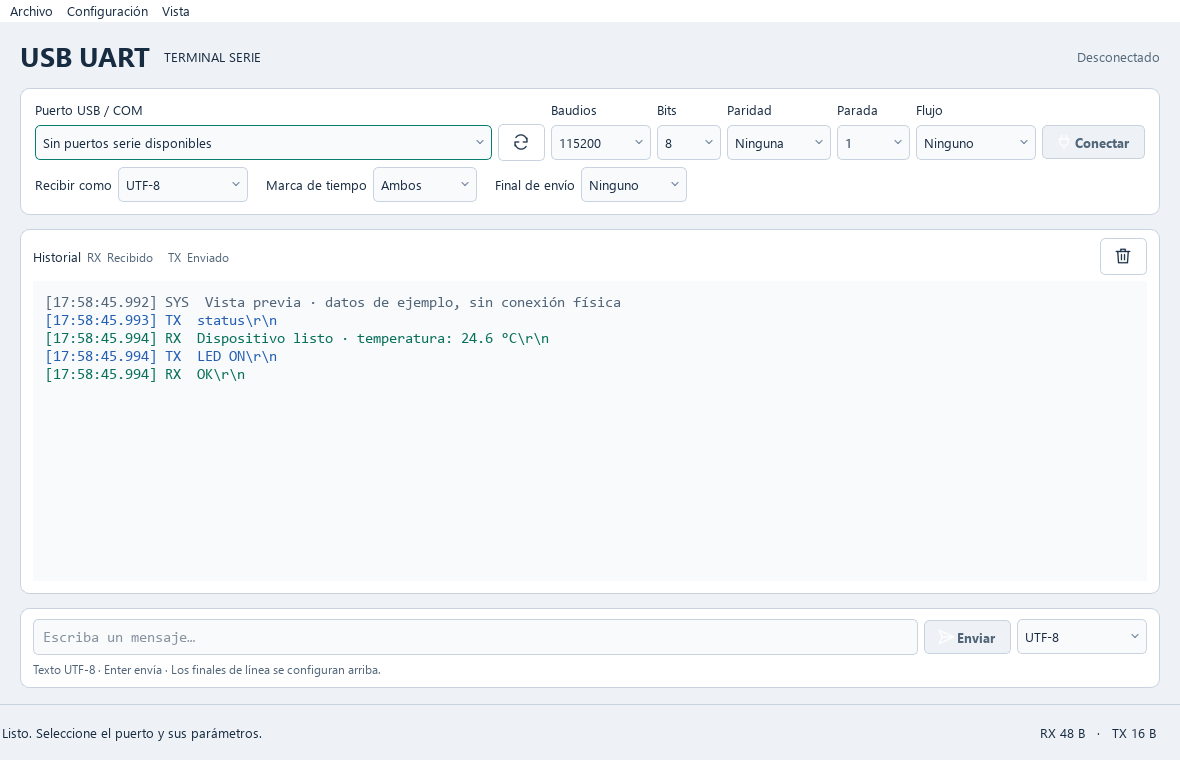
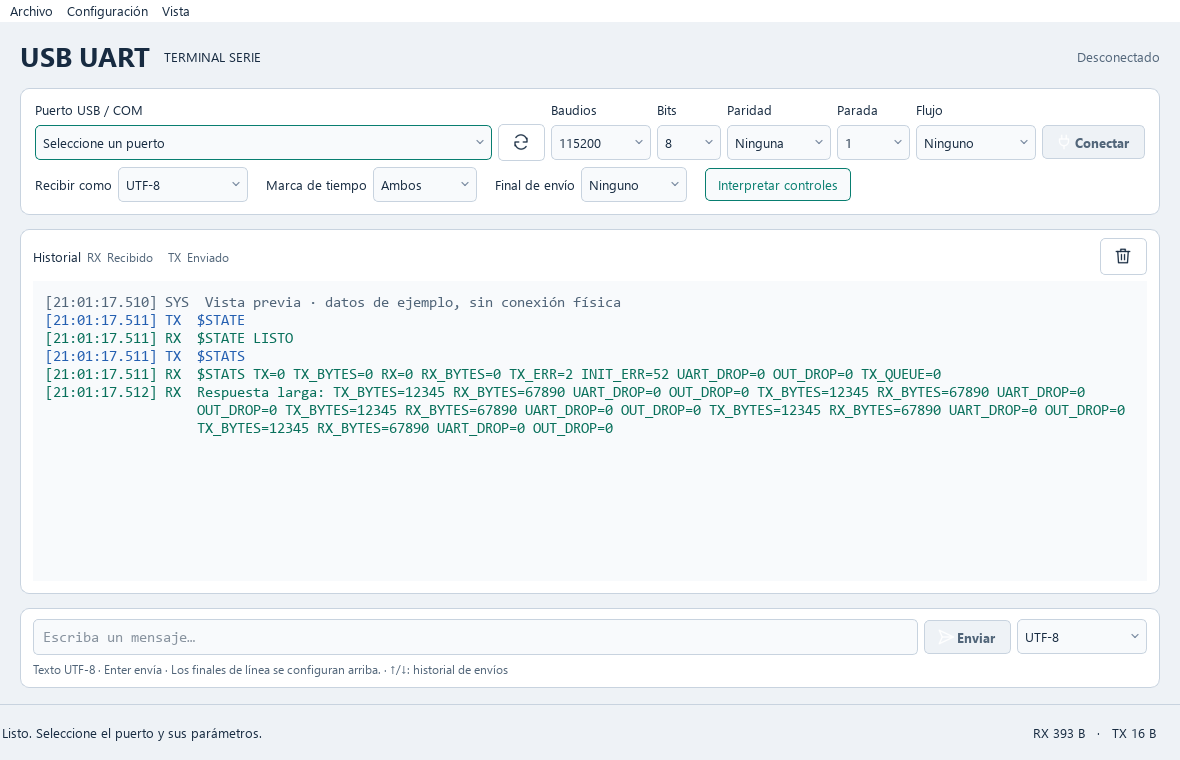
v1.0.1

diff --git a/src/window.py b/src/window.py
@@ -3,18 +3,19 @@
 from __future__ import annotations
 
 import json
+import re
 from collections import deque
 from dataclasses import dataclass
 from datetime import datetime
 from pathlib import Path
 
 from PySide6.QtCore import QByteArray, QEvent, QSize, Qt, QTimer
-from PySide6.QtGui import QAction, QActionGroup, QColor, QFont, QIcon, QPainter, QPixmap, QTextCharFormat, QTextCursor, QValidator
+from PySide6.QtGui import QAction, QActionGroup, QColor, QFont, QFontMetricsF, QIcon, QPainter, QPixmap, QTextBlockFormat, QTextCharFormat, QTextCursor, QValidator
 from PySide6.QtSerialPort import QSerialPortInfo
 from PySide6.QtSvg import QSvgRenderer
 from PySide6.QtWidgets import (
     QComboBox, QFileDialog, QFontDialog, QFrame, QGridLayout,
-    QHBoxLayout, QInputDialog, QLabel, QLineEdit, QMainWindow, QPlainTextEdit,
+    QHBoxLayout, QInputDialog, QLabel, QLineEdit, QMainWindow, QTextEdit,
     QPushButton, QSizePolicy, QToolButton, QVBoxLayout, QWidget,
 )
 
@@ -31,6 +32,7 @@ class Entry:
     timestamp: datetime
     payload: bytes
     message: str = ""
+    continuation: bool = False
 
 
 class ByteValidator(QValidator):
@@ -201,6 +203,12 @@ class MainWindow(QMainWindow):
             options.addWidget(widget)
             widget.currentTextChanged.connect(self._display_changed)
             options.addSpacing(12)
+        self.interpret_button = QPushButton("Interpretar controles")
+        self.interpret_button.setCheckable(True)
+        self.interpret_button.setChecked(terminal["interpret_controls"])
+        self.interpret_button.setToolTip("Interpretar CR (retorno), LF (salto), TAB y BS en texto RX/TX. No modifica los bytes UART ni ejecuta ANSI.")
+        self.interpret_button.toggled.connect(self._display_changed)
+        options.addWidget(self.interpret_button)
         options.addStretch()
         grid.addLayout(options, 2, 0, 1, 7)
         grid.setColumnStretch(0, 1)
@@ -222,7 +230,9 @@ class MainWindow(QMainWindow):
         self.clear_button.clicked.connect(self._clear_history)
         history_header.addWidget(self.clear_button)
         history_layout.addLayout(history_header)
-        self.history = QPlainTextEdit()
+        # QTextEdit respeta la sangría de párrafos; QPlainTextEdit ignora esos márgenes.
+        self.history = QTextEdit()
+        self.history.setAcceptRichText(False)
         self.history.setReadOnly(True)
         self.history.setUndoRedoEnabled(False)
         self.history.setPlaceholderText("Conecte un puerto para recibir datos. Los envíos y las recepciones aparecerán aquí.")
@@ -339,9 +349,10 @@ class MainWindow(QMainWindow):
             QPushButton, QToolButton {{ background: {c['panel']}; border: 1px solid {c['border']}; border-radius: 5px; padding: 7px 12px; }}
             QPushButton#primary {{ background: {c['accent']}; color: {c['accent_text']}; border-color: {c['accent']}; font-weight: 600; }}
             QPushButton:hover, QToolButton:hover {{ border-color: {c['accent']}; }}
+            QPushButton:checked {{ border-color: {c['accent']}; color: {c['accent']}; background: {c['input']}; }}
             QPushButton:disabled, QComboBox:disabled {{ color: {c['muted']}; background: {c['background']}; border-color: {c['border']}; }}
             QPushButton#primary:disabled {{ color: {c['muted']}; background: {c['background']}; border-color: {c['border']}; }}
-            QPlainTextEdit {{ background: {c['input']}; border: none; padding: 8px; selection-background-color: {c['accent']}; selection-color: {c['accent_text']}; }}
+            QTextEdit {{ background: {c['input']}; border: none; padding: 8px; selection-background-color: {c['accent']}; selection-color: {c['accent_text']}; }}
             QMenuBar, QMenu {{ background: {c['panel']}; }}
             QMenuBar::item:selected, QMenu::item:selected {{ background: {c['accent']}; color: {c['accent_text']}; }}
             QMenu::item {{ padding: 6px 24px; }}
@@ -364,7 +375,9 @@ class MainWindow(QMainWindow):
         font.setItalic(view["italic"])
         self.history.setFont(font)
         self.input.setFont(font)
-        self.history.setLineWrapMode(QPlainTextEdit.WidgetWidth if view["word_wrap"] else QPlainTextEdit.NoWrap)
+        self.history.setLineWrapMode(QTextEdit.WidgetWidth if view["word_wrap"] else QTextEdit.NoWrap)
+        # La sangría depende de la fuente, el tamaño y la presencia de la hora.
+        self._render_history()
 
     def _refresh_ports(self) -> None:
         if self.transport.port.isOpen():
@@ -517,12 +530,18 @@ class MainWindow(QMainWindow):
             self._set_message(f"En cola TX: {len(payload)} bytes.")
 
     def _display_changed(self, *args) -> None:
-        self.config["terminal"].update(rx_mode=self.rx_mode.currentText(), timestamp=self.timestamp.currentText(), line_ending=self.line_ending.currentText())
+        self.config["terminal"].update(rx_mode=self.rx_mode.currentText(), timestamp=self.timestamp.currentText(), line_ending=self.line_ending.currentText(), interpret_controls=self.interpret_button.isChecked())
         self._render_history()
         self.save_timer.start()
 
     def _reset_formatters(self) -> None:
-        self.formatters = {"RX": StreamFormatter(self.rx_mode.currentText()), "TX": StreamFormatter(self.tx_mode.currentText())}
+        interpret = self.interpret_button.isChecked()
+        self.formatters = {"RX": StreamFormatter(self.rx_mode.currentText(), interpret), "TX": StreamFormatter(self.tx_mode.currentText(), interpret)}
+        self.terminal_direction = None
+        self.terminal_closed = True
+        self.terminal_text = ""
+        self.terminal_column = 0
+        self.terminal_prefix_length = 0
 
     def _record(self, direction: str, payload: bytes) -> None:
         if direction == "RX":
@@ -531,7 +550,7 @@ class MainWindow(QMainWindow):
             self.tx_bytes += len(payload)
         # Acota también cada registro: pegar texto largo no crea una fila ilimitada.
         for offset in range(0, len(payload), 4096):
-            entry = Entry(direction, datetime.now().astimezone(), payload[offset:offset + 4096])
+            entry = Entry(direction, datetime.now().astimezone(), payload[offset:offset + 4096], continuation=offset > 0)
             self.records.append(entry)
             self._append_entry(entry)
         self.counters.setText(f"RX {self.rx_bytes:,} B   ·   TX {self.tx_bytes:,} B")
@@ -542,29 +561,81 @@ class MainWindow(QMainWindow):
         self._append_entry(entry)
 
     def _append_entry(self, entry: Entry) -> None:
-        """Inserta texto plano con color; los datos UART nunca se interpretan como HTML."""
-        if entry.direction == "SYS":
-            # Una nueva conexión no puede completar el UTF-8 pendiente de la anterior.
-            self._reset_formatters()
-            content = entry.message
-        else:
-            content = self.formatters[entry.direction].format(entry.payload)
-            if not content:
-                content = "[secuencia UTF-8 pendiente]"
-        stamp = self.timestamp.currentText()
-        prefix = f"[{entry.timestamp:%H:%M:%S}.{entry.timestamp.microsecond // 1000:03d}] " if stamp == "Ambos" or stamp == entry.direction else ""
-        line = f"{prefix}{entry.direction}  {content}"
+        """Alterna entre bytes visibles y líneas de texto, conservando el registro original."""
         scrollbar = self.history.verticalScrollBar()
         previous_scroll = scrollbar.value()
         follow = self.config["view"]["autoscroll"] and previous_scroll >= scrollbar.maximum() - 2
+        if entry.direction == "SYS":
+            # Una nueva conexión no puede completar el UTF-8 pendiente de la anterior.
+            self._reset_formatters()
+            self._new_history_row(entry, entry.message)
+        else:
+            content = self.formatters[entry.direction].format(entry.payload)
+            mode = self.rx_mode.currentText() if entry.direction == "RX" else self.tx_mode.currentText()
+            if self.interpret_button.isChecked() and mode in ("UTF-8", "ASCII"):
+                # Cada envío es independiente; las lecturas RX sí pueden fragmentar una línea.
+                if entry.direction == "TX" and not entry.continuation:
+                    self.terminal_closed = True
+                self._interpret_text(entry, content)
+            else:
+                self.terminal_closed = True
+                self._new_history_row(entry, content or "[secuencia UTF-8 pendiente]")
+        scrollbar.setValue(scrollbar.maximum() if follow else previous_scroll)
+
+    def _new_history_row(self, entry: Entry, content: str = "") -> None:
+        """Usa sangría francesa: solo la primera línea ocupa la columna RX/TX/hora."""
+        stamp = self.timestamp.currentText()
+        prefix = f"[{entry.timestamp:%H:%M:%S}.{entry.timestamp.microsecond // 1000:03d}] " if stamp == "Ambos" or stamp == entry.direction else ""
+        prefix += f"{entry.direction}  "
         cursor = QTextCursor(self.history.document())
         cursor.movePosition(QTextCursor.End)
         if not self.history.document().isEmpty():
             cursor.insertBlock()
+        margin = QFontMetricsF(self.history.font()).horizontalAdvance(prefix)
+        block_format = QTextBlockFormat()
+        block_format.setLeftMargin(margin)
+        block_format.setTextIndent(-margin)
+        cursor.setBlockFormat(block_format)
         char_format = QTextCharFormat()
         char_format.setForeground(QColor(self.colors.get(entry.direction.lower(), self.colors["muted"])))
-        cursor.insertText(line, char_format)
-        scrollbar.setValue(scrollbar.maximum() if follow else previous_scroll)
+        cursor.insertText(prefix + content, char_format)
+        self.terminal_prefix_length = len(prefix)
+
+    def _interpret_text(self, entry: Entry, content: str) -> None:
+        """Aplica controles al área de datos; un CR nunca sobrescribe la etiqueta RX/TX."""
+        for part in re.split(r"([\r\n\t\b])", content):
+            if not part:
+                continue
+            if self.terminal_closed or self.terminal_direction != entry.direction:
+                self._new_history_row(entry)
+                self.terminal_direction = entry.direction
+                self.terminal_text = ""
+                self.terminal_column = 0
+                self.terminal_closed = False
+            if part == "\r":
+                self.terminal_column = 0
+            elif part == "\n":
+                # Pospone crear la siguiente fila: CRLF final no agrega filas vacías.
+                self.terminal_closed = True
+            elif part == "\b":
+                self.terminal_column = max(0, self.terminal_column - 1)
+            else:
+                if part == "\t":
+                    part = " " * (8 - self.terminal_column % 8)
+                # Acota líneas sin terminadores para no acumular un bloque ilimitado.
+                if len(self.terminal_text) + len(part) > 32768:
+                    self._new_history_row(entry)
+                    self.terminal_text = ""
+                    self.terminal_column = 0
+                column = self.terminal_column
+                self.terminal_text = self.terminal_text[:column] + part + self.terminal_text[column + len(part):]
+                self.terminal_column += len(part)
+                cursor = QTextCursor(self.history.document().lastBlock())
+                cursor.setPosition(cursor.block().position() + self.terminal_prefix_length)
+                cursor.movePosition(QTextCursor.EndOfBlock, QTextCursor.KeepAnchor)
+                char_format = QTextCharFormat()
+                char_format.setForeground(QColor(self.colors[entry.direction.lower()]))
+                cursor.insertText(self.terminal_text, char_format)
 
     def _render_history(self) -> None:
         if not hasattr(self, "history"):

diff --git a/tests/test_terminal.py b/tests/test_terminal.py
@@ -17,7 +17,7 @@ ROOT = Path(__file__).resolve().parent.parent
 sys.path.insert(0, str(ROOT / "src"))
 
 from PySide6.QtCore import QObject, Signal, Qt
-from PySide6.QtGui import QValidator
+from PySide6.QtGui import QFontDatabase, QFontMetricsF, QValidator
 from PySide6.QtSerialPort import QSerialPort
 from PySide6.QtTest import QTest
 from PySide6.QtWidgets import QApplication
@@ -185,6 +185,11 @@ class WindowTests(unittest.TestCase):
     @classmethod
     def setUpClass(cls):
         cls.app = QApplication.instance() or QApplication([])
+        # Permite comprobar geometría de texto real con el plugin offscreen de Windows.
+        if os.name == "nt":
+            fonts = Path(os.environ.get("WINDIR", "C:/Windows")) / "Fonts"
+            for name in ("segoeui.ttf", "consola.ttf"):
+                QFontDatabase.addApplicationFont(str(fonts / name))
 
     def setUp(self):
         self.temporary = tempfile.TemporaryDirectory()
@@ -327,6 +332,67 @@ class WindowTests(unittest.TestCase):
                 self.window._send()
         self.assertEqual(len(self.window.send_history["UTF-8"]), 100)
         self.assertEqual(self.window.send_history["UTF-8"][0], "3")
+
+    def test_interpret_fragmented_esp32_reply_and_crlf(self):
+        self.window.timestamp.setCurrentText("Ninguna")
+        self.window.interpret_button.click()
+        self.window._record("TX", b"$STATS\r\n")
+        self.window._record("RX", b"$STATS TX=0 INIT_ERR=52 UART")
+        self.window._record("RX", b"_DROP=0 OUT_DROP=0 TX_QUEUE=0\r")
+        self.window._record("RX", b"\n")
+        self.assertEqual(self.window.history.toPlainText(), "TX  $STATS\nRX  $STATS TX=0 INIT_ERR=52 UART_DROP=0 OUT_DROP=0 TX_QUEUE=0")
+        self.window._record("RX", b"LISTO\r\nOTRA LINEA\n")
+        self.assertTrue(self.window.history.toPlainText().endswith("RX  LISTO\nRX  OTRA LINEA"))
+
+    def test_control_toggle_preserves_bytes_and_literal_backslashes(self):
+        payload = b"A\r\nB\tC\x00 literal \\r\\n"
+        self.window._record("RX", payload)
+        raw_view = self.window.history.toPlainText()
+        self.window.interpret_button.click()
+        interpreted = self.window.history.toPlainText()
+        self.assertIn("B       C\\x00 literal \\r\\n", interpreted)
+        self.assertNotEqual(interpreted, raw_view)
+        self.assertEqual(self.window.records[0].payload, payload)
+        self.window._save()
+        self.assertTrue(Settings(self.root / "config.json").data["terminal"]["interpret_controls"])
+        self.window.interpret_button.click()
+        self.assertEqual(self.window.history.toPlainText(), raw_view)
+
+    def test_cr_and_backspace_protect_prefix_and_handle_unicode(self):
+        self.window.timestamp.setCurrentText("Ninguna")
+        self.window.interpret_button.click()
+        self.window._record("RX", "abcdef\rOK\n😀ab\bZ".encode())
+        self.assertEqual(self.window.history.toPlainText(), "RX  OKcdef\nRX  😀aZ")
+
+    def test_interpret_mode_keeps_hex_and_binary_exact(self):
+        self.window.interpret_button.click()
+        self.window.rx_mode.setCurrentText("Hexadecimal")
+        self.window._record("RX", b"A\r\n")
+        self.assertIn("41 0D 0A", self.window.history.toPlainText())
+        self.window.rx_mode.setCurrentText("Binario")
+        self.assertIn("01000001 00001101 00001010", self.window.history.toPlainText())
+
+    def test_wrapped_lines_align_with_payload_and_follow_font_changes(self):
+        self.window.timestamp.setCurrentText("Ninguna")
+        self.window._record("RX", b"$STATS " + b"TX=0 RX=0 TX_BYTES=0 RX_BYTES=0 " * 15)
+        self.app.processEvents()
+        block = self.window.history.document().firstBlock()
+        layout = block.layout()
+        self.assertGreater(layout.lineCount(), 1)
+        indent = QFontMetricsF(self.window.history.font()).horizontalAdvance("RX  ")
+        self.assertAlmostEqual(block.blockFormat().leftMargin(), indent, delta=0.1)
+        self.assertAlmostEqual(layout.lineAt(1).x() - layout.lineAt(0).x(), indent, delta=1)
+        self.window._zoom(3)
+        self.window.timestamp.setCurrentText("Ambos")
+        prefix = self.window.history.toPlainText().split("$STATS", 1)[0]
+        indent = QFontMetricsF(self.window.history.font()).horizontalAdvance(prefix)
+        self.assertAlmostEqual(self.window.history.document().firstBlock().blockFormat().leftMargin(), indent, delta=0.1)
+
+    def test_interpreted_lines_are_bounded_without_changing_raw_history(self):
+        self.window.interpret_button.click()
+        self.window._record("RX", b"A\n" * 1100)
+        self.assertEqual(self.window.history.document().blockCount(), 1000)
+        self.assertEqual(len(self.window.records), 1)
 
 
 if __name__ == "__main__":

diff --git a/src/protocol.py b/src/protocol.py
@@ -43,12 +43,13 @@ def grouped_input(text: str, mode: str) -> str:
 class StreamFormatter:
     """Mantiene UTF-8 incremental: una lectura UART puede cortar un carácter."""
 
-    def __init__(self, mode: str):
+    def __init__(self, mode: str, interpret_controls: bool = False):
         self.mode = mode
+        self.interpret_controls = interpret_controls
         self.decoder = codecs.getincrementaldecoder("utf-8")("backslashreplace")
 
     def format(self, payload: bytes, final: bool = False) -> str:
-        """Hace visibles los controles para que un dato no altere las filas del log."""
+        """Expone solo CR/LF/TAB/BS al visor cuando se solicita interpretarlos."""
         if self.mode == "Hexadecimal":
             return payload.hex(" ").upper()
         if self.mode == "Binario":
@@ -61,7 +62,9 @@ class StreamFormatter:
         visible = []
         for character in text:
             codepoint = ord(character)
-            if codepoint in (0x2028, 0x2029):
+            if self.interpret_controls and character in "\r\n\t\b":
+                visible.append(character)
+            elif codepoint in (0x2028, 0x2029):
                 # Los separadores Unicode también crean bloques en QTextDocument.
                 visible.append(f"\\u{codepoint:04X}")
             elif codepoint < 32 or 127 <= codepoint < 160:

diff --git a/scripts/preview.py b/scripts/preview.py
@@ -35,10 +35,13 @@ def main() -> None:
         window = MainWindow(root)
         window.port_timer.stop()
         window._system("Vista previa · datos de ejemplo, sin conexión física")
-        window._record("TX", b"status\r\n")
-        window._record("RX", "Dispositivo listo · temperatura: 24.6 °C\r\n".encode("utf-8"))
-        window._record("TX", b"LED ON\r\n")
-        window._record("RX", b"OK\r\n")
+        window.interpret_button.setChecked(True)
+        window._record("TX", b"$STATE\r\n")
+        window._record("RX", b"$STATE LISTO\r\n")
+        window._record("TX", b"$STATS\r\n")
+        window._record("RX", b"$STATS TX=0 TX_BYTES=0 RX=0 RX_BYTES=0 TX_ERR=2 INIT_ERR=52 UART")
+        window._record("RX", b"_DROP=0 OUT_DROP=0 TX_QUEUE=0\r\n")
+        window._record("RX", b"Respuesta larga: " + b"TX_BYTES=12345 RX_BYTES=67890 UART_DROP=0 OUT_DROP=0 " * 5 + b"\r\n")
         window.show()
         for name in ("Oscuro", "Claro"):
             window._change_theme(name)

diff --git a/src/settings.py b/src/settings.py
@@ -14,7 +14,7 @@ from protocol import ENDINGS, MODES
 DEFAULTS = {
     "show_console": False,
     "serial": {"port": "", "baudrate": 115200, "data_bits": 8, "parity": "Ninguna", "stop_bits": "1", "flow_control": "Ninguno"},
-    "terminal": {"tx_mode": "UTF-8", "rx_mode": "UTF-8", "line_ending": "Ninguno", "timestamp": "Ambos", "history_limit": 1000},
+    "terminal": {"tx_mode": "UTF-8", "rx_mode": "UTF-8", "line_ending": "Ninguno", "timestamp": "Ambos", "history_limit": 1000, "interpret_controls": False},
     "view": {"theme": "Oscuro", "font_family": "Consolas", "font_size": 11, "bold": False, "italic": False, "word_wrap": True, "autoscroll": True},
     "window": {"width": 1180, "height": 760, "maximized": False},
 }

diff --git a/README.md b/README.md
@@ -35,9 +35,18 @@ Con el foco en el cuadro de envío, **↑** recupera el último texto enviado y 
 
 Binario solo permite `0` y `1`, agrupados automáticamente de ocho en ocho. Hexadecimal solo permite `0–9` y `A–F`, en pares y siempre en mayúsculas. Se puede pegar una secuencia compacta; los caracteres inválidos se rechazan y no se envían bytes incompletos. No se agregan ceros para completar grupos. La entrada binaria/hexadecimal admite hasta 8192 dígitos, y la entrada de texto hasta 32768 caracteres. ASCII rechaza tildes y `ñ`; para esos caracteres use UTF-8.
 
-**Final de envío** añade opcionalmente LF (`0A`), CR (`0D`) o CRLF (`0D 0A`) en cualquiera de los formatos. De forma predeterminada no se añade nada. Los controles recibidos o enviados se muestran como `\r`, `\n`, `\t` y `\x00`; nunca se ejecutan secuencias de terminal ni se interpreta HTML. El decodificador conserva caracteres UTF-8 repartidos entre lecturas; una fila puede indicar una secuencia pendiente hasta recibir los bytes restantes.
+**Final de envío** añade opcionalmente LF (`0A`), CR (`0D`) o CRLF (`0D 0A`) en cualquiera de los formatos. Son bytes reales transmitidos por UART, aunque no sean caracteres imprimibles. De forma predeterminada no se añade nada. En RX, esos bytes proceden del dispositivo remoto; el visor no los agrega.
 
-El historial representa bloques de lectura/escritura, **no mensajes definidos por un protocolo ni un registro por byte**. UART no proporciona límites de mensaje. Un registro TX indica que el controlador confirmó la escritura de esos bytes; no implica que el equipo remoto los haya procesado. Los errores y bytes pendientes al desconectar se informan en la barra inferior. No hay reconexión automática.
+El botón superior **Interpretar controles** cambia la visualización de texto UTF-8/ASCII:
+
+- **Desactivado:** muestra los controles como `\r`, `\n`, `\t` y `\x00`, manteniendo separados los bloques de lectura.
+- **Activado:** LF inicia una nueva línea; CR devuelve el cursor al inicio de los datos, sin sobrescribir RX/TX ni la hora; CRLF produce un solo salto; TAB avanza al siguiente múltiplo de ocho columnas y BS retrocede una posición. CR y BS permiten sobrescribir texto, como en un indicador de progreso. Las lecturas RX consecutivas que continúan una misma línea se unen, incluso si CR y LF llegan por separado. Cada línea lógica nueva conserva su etiqueta RX/TX. Al cambiar de dirección se abre otra fila para mantener el orden del intercambio.
+
+La opción se guarda como `terminal.interpret_controls` en `config.json` y actualiza también el historial existente a partir de los bytes originales. No cambia lo transmitido ni convierte un texto literal `\r\n` en controles. Hexadecimal y binario siempre muestran todos los bytes. Los controles restantes siguen visibles y no se interpreta ANSI ni HTML. El decodificador conserva caracteres UTF-8 repartidos entre lecturas; con interpretación activada espera a completar el carácter antes de mostrarlo.
+
+Las líneas largas se ajustan con **sangría desde el inicio de los datos**: sus continuaciones no invaden la columna RX/TX/hora. La sangría se recalcula al cambiar la fuente, el tamaño o las marcas de tiempo. Se utiliza el formato de párrafo de [QTextBlockFormat](https://doc.qt.io/qtforpython-6/PySide6/QtGui/QTextBlockFormat.html).
+
+El historial conserva bloques de lectura/escritura, **no mensajes definidos por un protocolo ni un registro por byte**. UART no proporciona límites de mensaje. La vista interpretada usa LF para separar líneas. Un registro TX indica que el controlador confirmó la escritura de esos bytes; no implica que el equipo remoto los haya procesado. Los errores y bytes pendientes al desconectar se informan en la barra inferior. No hay reconexión automática.
 
 ## Menús y archivos
 
@@ -45,7 +54,7 @@ El historial representa bloques de lectura/escritura, **no mensajes definidos po
 - **Configuración:** actualizar puertos (`F5`), cambiar el límite del historial, mostrar consola al iniciar y guardar preferencias.
 - **Vista:** fuente, estilo y tamaño (`Ctrl+Shift+F`), aumentar/reducir tamaño, ajuste de línea, desplazamiento automático y temas claro/oscuro. Estas opciones afectan al texto mostrado. La papelera y `Ctrl+L` eliminan el historial y reinician contadores.
 
-El desplazamiento automático sigue las nuevas filas mientras esté al final; al subir para consultar el historial se pausa hasta volver al final. Por defecto se conservan 1000 registros, de hasta 4096 bytes cada uno; al alcanzar el límite se descartan los más antiguos. El límite configurable es de 100 a 10000 registros. Los contadores abarcan la sesión desde el último borrado, incluso si ya se descartaron registros antiguos. Cambiar a binario aumenta el uso de memoria por su representación de ocho dígitos por byte.
+El desplazamiento automático sigue las nuevas filas mientras esté al final; al subir para consultar el historial se pausa hasta volver al final. Por defecto se conservan 1000 registros, de hasta 4096 bytes cada uno; al alcanzar el límite se descartan los más antiguos. El límite configurable es de 100 a 10000 registros y también limita los párrafos visibles, ya que un bloque puede contener muchos LF. Para acotar el coste del visor, una línea interpretada sin terminadores se divide en otra fila si supera 32768 caracteres. Los contadores abarcan la sesión desde el último borrado, incluso si ya se descartaron registros antiguos. Cambiar a binario aumenta el uso de memoria por su representación de ocho dígitos por byte.
 
 Todas las preferencias se guardan en **`config.json`**, incluidas las del lanzador, puerto, UART, formatos, finales de línea, marcas de tiempo, fuente, tema y tamaño de ventana. La escritura es atómica y conserva claves adicionales. Un archivo JSON ilegible se mantiene intacto y se informa del error; hay que corregirlo antes de poder guardar nuevas preferencias. No se guarda el historial automáticamente.
 
